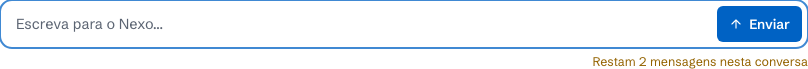
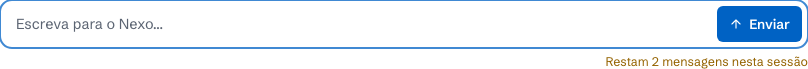
Volta o contador ao texto e aos pixels do design e prova que as telas do nexo.pen não mudaram
O contador volta a dizer "nesta sessão", sem tabular-nums nem transição, nos mesmos quatro pedaços de texto. As 8 telas que o nexo.pen desenha, fotografadas no main e nesta branch com os mesmos dados, têm 0 pixel de diferença.

Changed region(s): [[0.7116, 0.8116, 1.0, 1.0]]

diff --git a/apps/web/e2e/chat.spec.ts b/apps/web/e2e/chat.spec.ts
@@ -28,7 +28,7 @@ test("an empty chat greets Ana and counts nothing yet", async ({ page }) => {
   await signInAsAna(page);
   await expect(page.getByRole("heading", { name: "Oi, Ana. O que está acontecendo?" })).toBeVisible();
   await expect(page.getByText("Assistente online")).toBeVisible();
-  await expect(counter(page)).toHaveText("0/30 mensagens nesta conversa");
+  await expect(counter(page)).toHaveText("0/30 mensagens nesta sessão");
   await expect(composer(page)).toBeFocused();
 });
 
@@ -40,7 +40,7 @@ test("a question of the help center is answered with the article, with the actio
   const reply = replies(page).last();
   await expect(reply).toContainText("buscou na central de ajuda");
   await expect(reply).toContainText("Reinstale o cliente de VPN pelo portal de softwares");
-  await expect(counter(page)).toHaveText("1/30 mensagens nesta conversa");
+  await expect(counter(page)).toHaveText("1/30 mensagens nesta sessão");
 
   const detail = reply.getByRole("button", { name: "Ver decisão" });
   await expect(detail).toHaveAttribute("aria-expanded", "false");
@@ -56,7 +56,7 @@ test("a subject of HR goes to its channel", async ({ page }) => {
   const reply = replies(page).last();
   await expect(reply).toContainText("indicou o canal certo");
   await expect(reply).toContainText("rh@nexo.com.br");
-  await expect(counter(page)).toHaveText("2/30 mensagens nesta conversa");
+  await expect(counter(page)).toHaveText("2/30 mensagens nesta sessão");
 });
 
 test("the conversation and its decisions are still there after reloading the page", async ({ page }) => {
@@ -66,7 +66,7 @@ test("the conversation and its decisions are still there after reloading the pag
   await expect(replies(page).first()).toContainText("buscou na central de ajuda");
   await replies(page).first().getByRole("button", { name: "Ver decisão" }).click();
   await expect(replies(page).first().getByRole("definition").nth(2)).toHaveText("Alta · 82%");
-  await expect(counter(page)).toHaveText("2/30 mensagens nesta conversa");
+  await expect(counter(page)).toHaveText("2/30 mensagens nesta sessão");
 });
 
 test("Shift+Enter breaks the line and Enter sends", async ({ page }) => {
@@ -78,7 +78,7 @@ test("Shift+Enter breaks the line and Enter sends", async ({ page }) => {
   await composer(page).press("Enter");
   await expect(composer(page)).toHaveValue("");
   await expect(replies(page).last()).toHaveAttribute("aria-busy", "false", { timeout: 20_000 });
-  await expect(counter(page)).toHaveText("3/30 mensagens nesta conversa");
+  await expect(counter(page)).toHaveText("3/30 mensagens nesta sessão");
 });
 
 test("when the help center is down, the line says so and the agent explains", async ({ page, request }) => {
@@ -108,27 +108,27 @@ test("when the help center is down, the line says so and the agent explains", as
 
 test("a message the network dropped is marked as not sent and goes on the retry, counted once", async ({ page }) => {
   await signInAsAna(page);
-  await expect(counter(page)).toHaveText("4/30 mensagens nesta conversa");
+  await expect(counter(page)).toHaveText("4/30 mensagens nesta sessão");
   await page.route("**/api/chat", (route) => route.abort("internetdisconnected"), { times: 1 });
 
   await composer(page).fill("Qual o horário do service desk?");
   await composer(page).press("Enter");
   const mine = page.getByRole("article", { name: "Você" }).last();
   await expect(mine).toContainText("Não enviada.");
-  await expect(counter(page)).toHaveText("4/30 mensagens nesta conversa");
+  await expect(counter(page)).toHaveText("4/30 mensagens nesta sessão");
 
   await mine.getByRole("button", { name: "Tentar de novo" }).click();
   await expect(replies(page).last()).toHaveAttribute("aria-busy", "false", { timeout: 20_000 });
   await expect(replies(page).last()).toContainText("De segunda a sexta");
   await expect(mine).not.toContainText("Não enviada.");
-  await expect(counter(page)).toHaveText("5/30 mensagens nesta conversa");
+  await expect(counter(page)).toHaveText("5/30 mensagens nesta sessão");
   await page.reload();
-  await expect(counter(page)).toHaveText("5/30 mensagens nesta conversa");
+  await expect(counter(page)).toHaveText("5/30 mensagens nesta sessão");
 });
 
 test("a reply the network lost after it was saved shows up on the retry, counted once", async ({ page }) => {
   await signInAsAna(page);
-  await expect(counter(page)).toHaveText("5/30 mensagens nesta conversa");
+  await expect(counter(page)).toHaveText("5/30 mensagens nesta sessão");
   await page.route(
     "**/api/chat",
     async (route) => {
@@ -147,7 +147,7 @@ test("a reply the network lost after it was saved shows up on the retry, counted
   await mine.getByRole("button", { name: "Tentar de novo" }).click();
   await expect(replies(page).last()).toContainText("rh@nexo.com.br");
   await expect(mine).not.toContainText("Não enviada.");
-  await expect(counter(page)).toHaveText("6/30 mensagens nesta conversa");
+  await expect(counter(page)).toHaveText("6/30 mensagens nesta sessão");
   await expect(page.getByRole("article", { name: "Você" })).toHaveCount(6);
 });
 

diff --git a/apps/web/e2e/continuity-and-limit.spec.ts b/apps/web/e2e/continuity-and-limit.spec.ts
@@ -56,7 +56,7 @@ test("Gabriela comes back three days later to the same conversation, each day op
 
   // Where she stopped, with the counter of the conversation.
   await expect(page.getByRole("article", { name: "Você" }).first()).toHaveText("A impressora do 3º andar não imprime");
-  await expect(counter(page)).toHaveText("2/30 mensagens nesta conversa");
+  await expect(counter(page)).toHaveText("2/30 mensagens nesta sessão");
   // A conversation of a single day has no pill, as the chat of the design.
   await expect(page.getByText(dayAndMonth(lastAt), { exact: true })).toHaveCount(0);
 
@@ -64,7 +64,7 @@ test("Gabriela comes back three days later to the same conversation, each day op
   // Now it spans two days: each opens with its pill, today's above what she wrote now.
   await expect(page.getByText(dayAndMonth(lastAt), { exact: true })).toBeVisible();
   await expect(page.getByText("Hoje", { exact: true })).toBeVisible();
-  await expect(counter(page)).toHaveText("3/30 mensagens nesta conversa");
+  await expect(counter(page)).toHaveText("3/30 mensagens nesta sessão");
   await expect(replies(page).last()).toContainText("8h");
 });
 
@@ -73,11 +73,11 @@ test("near the limit the counter says what is left; the 30th is answered and, wi
   const page = await newPage(browser);
   await signIn(page, "gabriela.rocha@nexo.com.br");
 
-  await expect(counter(page)).toHaveText("Restam 2 mensagens nesta conversa");
+  await expect(counter(page)).toHaveText("Restam 2 mensagens nesta sessão");
   await expect(counter(page)).toHaveClass(/text-warning-text/);
   await ask(page, "Qual o horário do service desk?");
-  await expect(counter(page)).toHaveText("Resta 1 mensagem nesta conversa");
-  await expect(page.getByRole("status").filter({ hasText: "Resta 1 mensagem nesta conversa" })).toBeAttached();
+  await expect(counter(page)).toHaveText("Resta 1 mensagem nesta sessão");
+  await expect(page.getByRole("status").filter({ hasText: "Resta 1 mensagem nesta sessão" })).toBeAttached();
 
   await ask(page, "E qual o horário do service desk no plantão?");
   // The 30th is answered like any other, then the limit closes it: one note, the way to start over, and the composer for it.
@@ -87,19 +87,19 @@ test("near the limit the counter says what is left; the 30th is answered and, wi
   await expect(page.getByRole("separator", { name: /Limite de 30 mensagens/ })).toHaveCount(1);
   await expect(page.getByRole("button", { name: "Nova conversa" })).toBeVisible();
   await expect(composer(page)).toHaveAttribute("placeholder", "Comece uma nova conversa…");
-  await expect(counter(page)).toHaveText("30/30 mensagens nesta conversa");
+  await expect(counter(page)).toHaveText("30/30 mensagens nesta sessão");
 
   // A reload shows how it ended, until she starts another.
   await page.reload();
   await expect(page.getByRole("separator", { name: /conversa encerrada/ })).toBeVisible();
   await page.getByRole("button", { name: "Nova conversa" }).click();
   await expect(page.getByRole("heading", { name: "Oi, Gabriela. O que está acontecendo?" })).toBeVisible();
-  await expect(counter(page)).toHaveText("0/30 mensagens nesta conversa");
+  await expect(counter(page)).toHaveText("0/30 mensagens nesta sessão");
   await expect(composer(page)).toBeFocused();
 
   await ask(page, "Qual o horário do service desk?");
   await expect(page.getByRole("article", { name: "Você" })).toHaveCount(1);
-  await expect(counter(page)).toHaveText("1/30 mensagens nesta conversa");
+  await expect(counter(page)).toHaveText("1/30 mensagens nesta sessão");
 });
 
 test("Elisa reads how her last conversation ended, and writing there starts a new one on a clean screen", async ({ browser }) => {
@@ -118,7 +118,7 @@ test("with a question open at the limit an analyst gets it, and Rafael can only 
   await conversationWith("emp-elisa", { count: 29, lastAt: new Date(Date.now() - 20 * 60 * 1000), topic: "Dúvidas sobre o Teams" });
   const elisa = await newPage(browser);
   await signIn(elisa, "elisa.prado@nexo.com.br");
-  await expect(counter(elisa)).toHaveText("Resta 1 mensagem nesta conversa");
+  await expect(counter(elisa)).toHaveText("Resta 1 mensagem nesta sessão");
 
   await ask(elisa, "Minha impressora não imprime");
   await expect(replies(elisa).last().getByRole("button", { name: "Só eu" })).toBeVisible();

diff --git a/packages/shared/src/continuity.test.ts b/packages/shared/src/continuity.test.ts
@@ -127,18 +127,18 @@ describe("counterText", () => {
   const withAgent = { state: "with_agent" as const, limitReached: false, analystName: null };
 
   it("counts the conversation until the last five", () => {
-    expect(counterText(0, withAgent)).toEqual({ text: "0/30 mensagens nesta conversa", tone: "muted" });
-    expect(counterText(24, withAgent)).toEqual({ text: "24/30 mensagens nesta conversa", tone: "muted" });
+    expect(counterText(0, withAgent)).toEqual({ text: "0/30 mensagens nesta sessão", tone: "muted" });
+    expect(counterText(24, withAgent)).toEqual({ text: "24/30 mensagens nesta sessão", tone: "muted" });
   });
 
   it("tells what is left from 25 on, while the Nexo answers", () => {
-    expect(counterText(25, withAgent)).toEqual({ text: "Restam 5 mensagens nesta conversa", tone: "warning" });
-    expect(counterText(29, withAgent)).toEqual({ text: "Resta 1 mensagem nesta conversa", tone: "warning" });
+    expect(counterText(25, withAgent)).toEqual({ text: "Restam 5 mensagens nesta sessão", tone: "warning" });
+    expect(counterText(29, withAgent)).toEqual({ text: "Resta 1 mensagem nesta sessão", tone: "warning" });
   });
 
   it("does not warn while an analyst has her: nothing changes for her at 30", () => {
     expect(counterText(27, { state: "with_analyst", limitReached: false, analystName: "Rafael Lima" })).toEqual({
-      text: "27/30 mensagens nesta conversa",
+      text: "27/30 mensagens nesta sessão",
       tone: "muted",
     });
   });
@@ -155,6 +155,6 @@ describe("counterText", () => {
   });
 
   it("a conversation closed by the limit counts 30 of 30", () => {
-    expect(counterText(30, { state: "closed", limitReached: true, analystName: null })).toEqual({ text: "30/30 mensagens nesta conversa", tone: "muted" });
+    expect(counterText(30, { state: "closed", limitReached: true, analystName: null })).toEqual({ text: "30/30 mensagens nesta sessão", tone: "muted" });
   });
 });

diff --git a/apps/web/app/(employee)/chat/composer.tsx b/apps/web/app/(employee)/chat/composer.tsx
@@ -93,13 +93,31 @@ export function Composer({
       </div>
       <p
         id="chat-counter"
-        className={`self-end text-12.5 tabular-nums transition-colors duration-200 ${counter.tone === "warning" ? "text-warning-text" : "text-ink-3"}`}
+        className={`self-end text-12.5 ${counter.tone === "warning" ? "text-warning-text" : "text-ink-3"}`}
       >
-        {counter.text}
+        <CounterText text={counter.text} />
       </p>
       <p role="status" className="sr-only">
         {announceCounter ? counter.text : ""}
       </p>
     </form>
+  );
+}
+
+/**
+ * The count in the four runs of text the chat always drew it with ("12", "/", "30", " mensagens…"): the browser places
+ * the letters of separate runs a fraction of a pixel apart from one run, and nexo.pen was measured against these.
+ */
+function CounterText({ text }: { text: string }) {
+  const runs = text.match(/^(\d+)(\/)(\d+)( .+)$/);
+  if (!runs) return text;
+  const [, count, slash, limit, rest] = runs;
+  return (
+    <>
+      {count}
+      {slash}
+      {limit}
+      {rest}
+    </>
   );
 }

diff --git a/packages/shared/src/continuity.ts b/packages/shared/src/continuity.ts
@@ -125,7 +125,7 @@ export function counterText(
   if (limitReached && paused) return { text: `Limite do Nexo atingido · ${analystName ?? "um analista"} continua com você`, tone: "muted" };
   const left = MESSAGE_LIMIT - count;
   if (state === "with_agent" && count >= LIMIT_WARNING_FROM && left > 0) {
-    return { text: left === 1 ? "Resta 1 mensagem nesta conversa" : `Restam ${left} mensagens nesta conversa`, tone: "warning" };
+    return { text: left === 1 ? "Resta 1 mensagem nesta sessão" : `Restam ${left} mensagens nesta sessão`, tone: "warning" };
   }
-  return { text: `${Math.min(count, MESSAGE_LIMIT)}/${MESSAGE_LIMIT} mensagens nesta conversa`, tone: "muted" };
+  return { text: `${Math.min(count, MESSAGE_LIMIT)}/${MESSAGE_LIMIT} mensagens nesta sessão`, tone: "muted" };
 }

diff --git a/apps/web/app/(employee)/loading.tsx b/apps/web/app/(employee)/loading.tsx
@@ -23,7 +23,7 @@ export default function AttendanceLoading() {
               Enviar
             </span>
           </div>
-          <p className="self-end text-12.5 text-ink-3">–/{MESSAGE_LIMIT} mensagens nesta conversa</p>
+          <p className="self-end text-12.5 text-ink-3">–/{MESSAGE_LIMIT} mensagens nesta sessão</p>
         </div>
       </main>
     </>

diff --git a/docs/features/6-continuidade-e-limite/relatorio.md b/docs/features/6-continuidade-e-limite/relatorio.md
@@ -7,7 +7,7 @@ O plano está em [plano.md](plano.md). Aqui ficam o que foi pedido, a prova de c
 | Pedido | Prova |
 |---|---|
 | Front e back | No back, `applyLimit`, o movimento `reachLimit`, a recusa do devolver depois do limite, a 31ª mensagem que aplica o limite antes, a nota de retomada para o agent e a leitura da última conversa encerrada. Na tela, o contador, a nota do limite, "Nova conversa", as pílulas de dia, o "Devolver ao agent" que some e o resumo do caso no console. |
-| Fiel ao design | O nexo.pen não desenha nenhum destes estados. Eles saem das peças que já existem, decididas com o design-engineer, e as medidas na tela batem com as peças originais (tabela abaixo). |
+| Fiel ao design | As 8 telas que o nexo.pen desenha (login, chat vazio, com o agent, esperando, com o analista, e o console na lista, esperando e assumido) ficaram iguais ao `main` pixel a pixel: 0 pixel de diferença, e o `main` já foi medido contra o nexo.pen nas features 3 a 5. Os estados novos, que o nexo.pen não desenha, saem das peças que já existem, decididas com o design-engineer, e as medidas batem com as peças originais. |
 | Lógica do back | O que é pendente, o nível, a espera e o resumo saem do código e do que está salvo. O modelo não decide nada no limite. A mudança e a nota vão no mesmo batch, sobre a versão lida. Quem perde a corrida planeja de novo. |
 | Desempenho | `applyLimit` lê tudo numa ida ao banco e escreve em outra. A última conversa da pessoa sai de um índice novo, `(employee_id, created_at)`. |
 | Padrão do contrato | Tudo novo do contrato fica em `packages/shared`: `continuity.ts`, o motivo `message_limit`, a nota `limit_reached`, `limitReached` na conversa e no console e `messageMeta` com a hora de cada mensagem. Nenhuma rota nova. |
@@ -39,19 +39,38 @@ Todas passam e os tipos fecham nos quatro pacotes. Por pacote: shared 217, ticke
 
 O arquivo [continuity-and-limit.spec.ts](../../../apps/web/e2e/continuity-and-limit.spec.ts) roda a história com duas pessoas. Gabriela volta a uma conversa de três dias atrás e vê os dois dias em pílulas. Depois, perto do limite, o contador conta o que falta; a 30ª é respondida e, sem nada pendente, a conversa fecha; ela recarrega, vê o fim, clica em "Nova conversa" e recomeça. Elisa abre e vê como a última conversa dela terminou. Escrevendo ali, a tela recomeça limpa. Depois ela bate o limite com uma pergunta aberta, a conversa vai para o N1, e o Rafael vê "Limite de mensagens" na lista, abre o resumo do caso pela nota, assume sem ter "Devolver ao agent", conversa com ela e encerra. O arquivo prepara as cenas de dias e de 29 mensagens direto no banco do teste e apaga o que escreveu ao terminar, para os números do login continuarem os mesmos.
 
-Dois testes antigos mudaram por causa do comportamento novo: o texto do contador passou de "nesta sessão" para "nesta conversa", e "pedir a conversa sem id" agora devolve a última encerrada em vez de nada.
+Um teste antigo mudou por causa do comportamento novo: "pedir a conversa sem id" agora devolve a última encerrada em vez de nada.
 
 O e2e achou um defeito antes da entrega: o resumo para o analista só abria pela nota de transferência comum. A nota do limite também abre, como "Resumo do caso".
 
 ## Fidelidade
 
-Não existe quadro no nexo.pen para estes estados, então a medida é contra as peças reutilizadas, na tela real (1440 × 900):
+### O que o nexo.pen desenha não mudou
+
+As telas que o nexo.pen desenha foram fotografadas no `main` e nesta branch, com os mesmos dados de exemplo, a 1440 × 900, em builds de produção. Os dígitos viram 0 nas duas, para os horários de um seed rodado em outro minuto não contarem como diferença.
+
+| Tela | Pixels diferentes |
+|---|---|
+| Login | 0 de 1.296.000 |
+| Chat vazio (Ana) | 0 |
+| Chat com o agent (Bruno) | 0 |
+| Chat esperando o analista (Carla) | 0 |
+| Chat com o analista (Fábio) | 0 |
+| Console, Para você | 0 |
+| Console, conversa esperando (Diego) | 0 |
+| Console, conversa assumida (Fábio) | 0 |
+
+A primeira medição achou 106 pixels no contador, em três letras. Eu tinha posto `tabular-nums` e uma transição de cor nele, e passado a desenhá-lo como um texto só; o chat sempre o desenhou em quatro pedaços ("12", "/", "30", " mensagens…"), e o navegador põe as letras de pedaços separados a uma fração de pixel das de um texto inteiro. Os três voltaram como eram. O texto também voltou a ser o do design, "nesta sessão", com "Restam 5 mensagens nesta sessão" nas últimas cinco. Imagens: [main-x-feature6-chat.png](provas/main-x-feature6-chat.png) e [main-x-feature6-console.png](provas/main-x-feature6-console.png).
+
+### Os estados novos
+
+Não existe quadro no nexo.pen para eles, então a medida é contra as peças reutilizadas, na tela real (1440 × 900):
 
 | Peça nova | Peça de origem | Resultado |
 |---|---|---|
 | Botão "Nova conversa" | chip de sugestão da tela vazia | altura 31 px, raio 8 px, 13,5/17 px peso 500, mesma cor, mesmo contorno |
 | Pílula de dia no chat | pílula de dia do console | altura 23 px, 12/15 px peso 500, mesma cor de texto. O fundo muda de propósito: o console a desenha branca sobre o cinza dele; o chat é branco, então ela usa o cinza das pílulas neutras (`bg-desk`) |
-| Contador | contador da feature 2 | mesma posição e 12,5/15 px; ganha `tabular-nums` e o tom de aviso do sistema nas últimas cinco |
+| Contador | contador da feature 2 | o mesmo, pixel a pixel, até 24; nas últimas cinco, o texto diz quanto falta no tom de aviso do sistema |
 | Nota do limite | nota do console (`SystemNote`) | mesma peça. O ícone segue o que o limite fez: encerrou, transferiu ou ficou com o analista |
 
 No celular, a nota quebra em duas linhas. O "·" fica no fim da linha de cima, nunca abrindo a de baixo; o leitor de tela lê o texto original.
@@ -101,3 +120,4 @@ A medida pela rede variava até 15 KB entre rodadas, por isso ficou a do build. 
 - [chat-7-limite-transferiu.png](provas/chat-7-limite-transferiu.png) e [chat-8-analista-continua.png](provas/chat-8-analista-continua.png): o limite com pergunta aberta, e o Rafael na conversa.
 - [console-1-limite-esperando.png](provas/console-1-limite-esperando.png) e [console-2-assumido-so-encerrar.png](provas/console-2-assumido-so-encerrar.png): a lista, o resumo do caso e o assumido só com Encerrar.
 - [celular-resta-1.png](provas/celular-resta-1.png) e [celular-limite-encerrou.png](provas/celular-limite-encerrou.png): 375 px.
+- [main-x-feature6-chat.png](provas/main-x-feature6-chat.png) e [main-x-feature6-console.png](provas/main-x-feature6-console.png): main, feature 6 e a diferença, toda preta.
